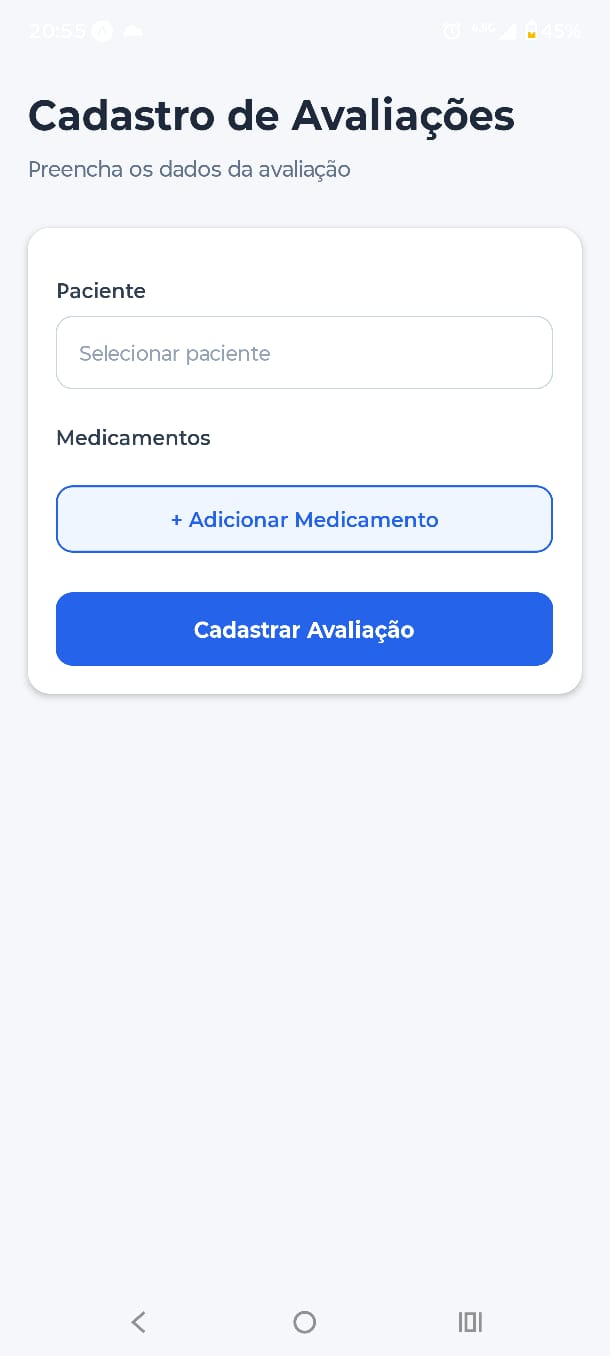
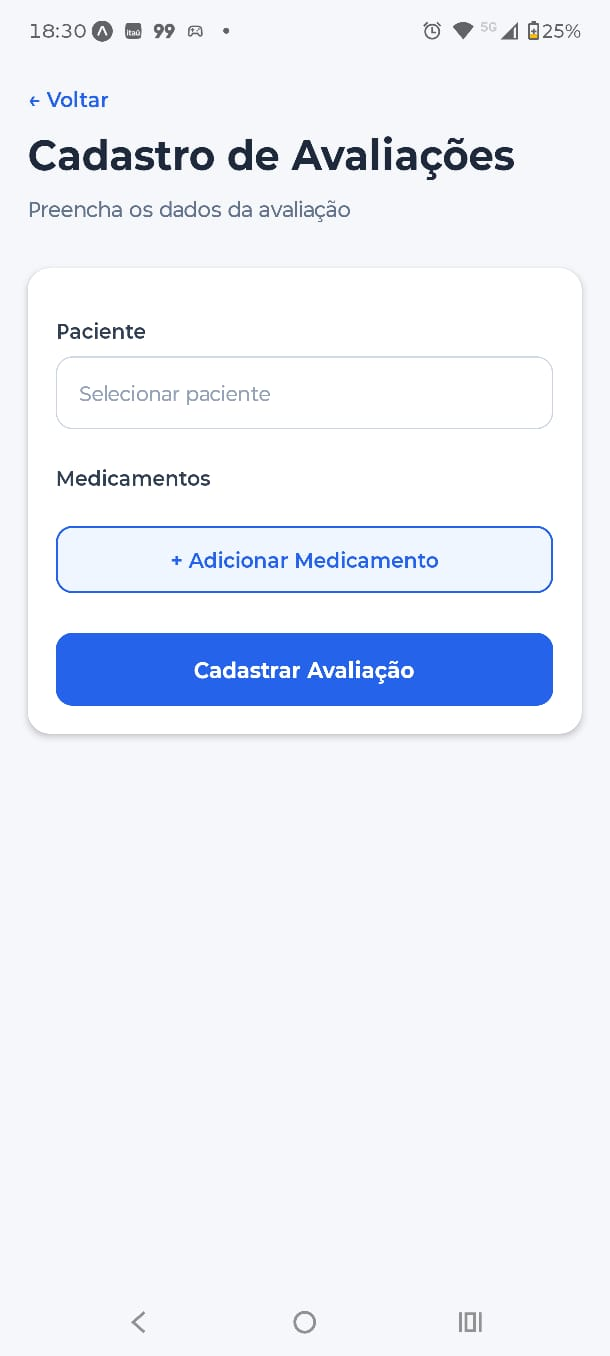
ajuste no readme

diff --git a/README.md b/README.md
@@ -1,69 +1,83 @@
 ## Prints das Telas do aplicativo v1
 
 - Inserido tela de Login
+
 ![alt text](assets/prints/TelaLogin1.jpeg)
 
 ---
 
 - Inserido tela de Login preenchida
+
 ![alt text](assets/prints/TelaLogin2.jpeg)
 
 ---
 
 - Inserido Pagina inicial
+
 ![alt text](assets/prints/PaginaInicial.jpeg)
 
 ---
 
 - Inserido tela Lista de Pacientes
+
 ![alt text](assets/prints/ListaPacientes.jpeg)
 
 ---
 
-- Inserido tela de Cadastro de pacientes 1
-![alt text](assets/prints/CadastroPacientes1.jpeg)
+- Tela de Cadastro de pacientes
+
+![alt text](assets/prints/cadastro_paciente.jpeg)
 
 ---
 
-- Inserido tela de Cadastro de pacientes 2
-![alt text](assets/prints/CadastroPacientes1.jpeg)
+- Tela de Cadastro de pacientes (Masculino)
+
+![alt text](assets/prints/cadastro_paciente_masc.jpeg)
 
 ---
 
-- Incluído card de avaliação
-![alt text](assets/prints/menu_inicial_avaliacao.jpeg)
+- Tela de Cadastro de pacientes (Feminino)
+
+![alt text](assets/prints/cadastro_paciente_fem.jpeg)
 
 ---
 
 - Form para cadastro de avaliações
+
 ![alt text](assets/prints/form_avaliacao.png)
 
 ---
 
 - Selecionar paciente no medicamento
+
 ![alt text](assets/prints/selecionar_paciente_medicamento.png)
 
 ---
 
 - Selecionar medicamento
+
 ![alt text](assets/prints/selecionar_medicamento.png)
 
 ---
 
 - Calendário na parte de cadastro do medicamento
+
 ![alt text](assets/prints/calendario_medicamento.png)
 
 ---
 
 - Confirmar uso contínuo do medicamento
+
 ![alt text](assets/prints/confirmar_uso_continuo.png)
 
 ---
 
 - Medicamento cadastrado do paciente
+
 ![alt text](assets/prints/medicamento_cadastrado.png)
 
 ---
 
 - Avaliações do paciente
+
 ![alt text](assets/prints/avaliacoes_paciente.png)
